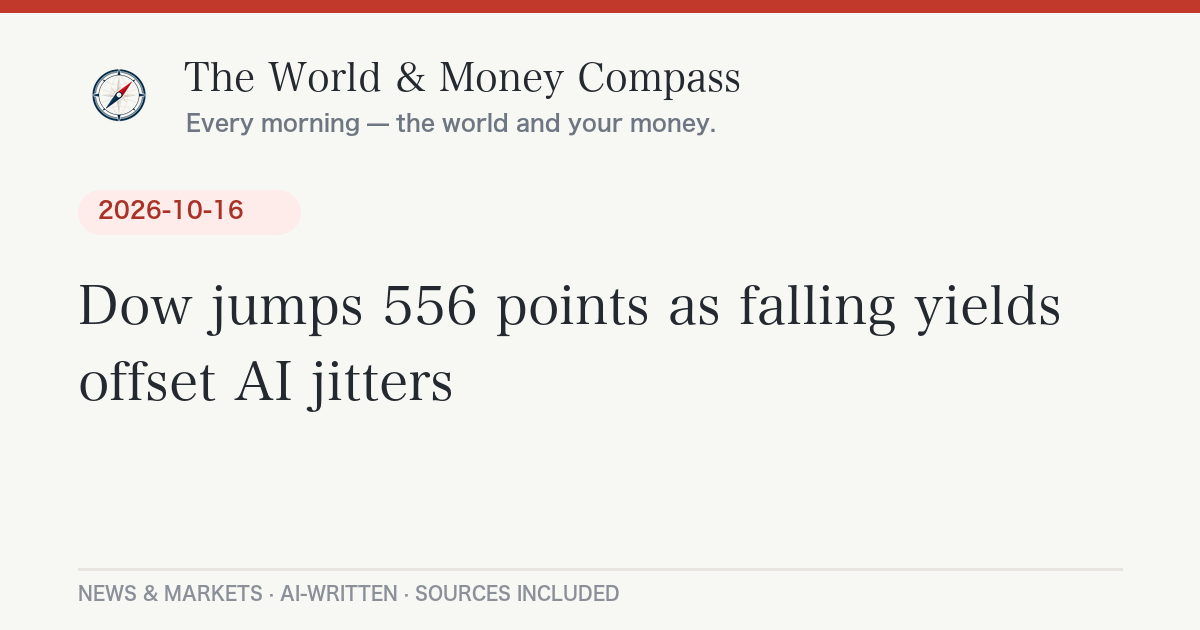
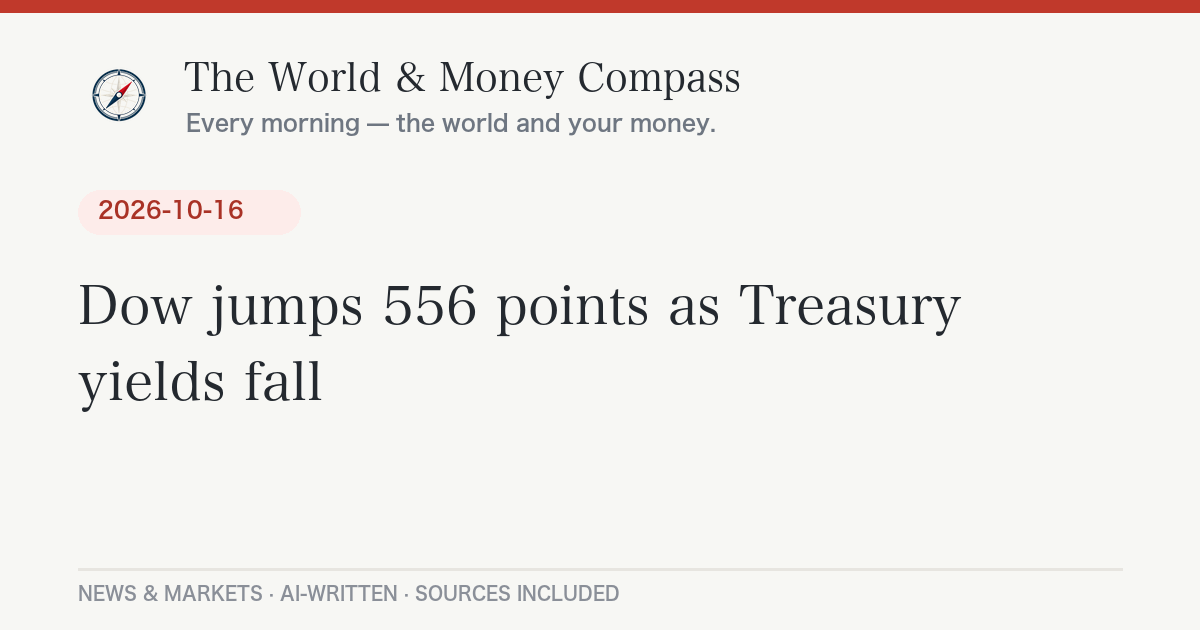
Daily briefing 2026-10-18

Changed region(s): [[0.0617, 0.573, 0.37, 0.6635], [0.6167, 0.4524, 0.8942, 0.5429]]

diff --git a/_posts/2026-10-18-daily-briefing.md b/_posts/2026-10-18-daily-briefing.md
@@ -1,0 +1,105 @@
+---
+layout: post
+lang: ja
+title: "トランプ氏が対ロシア制裁を免除、原油は週10%高｜10月18日のニュースとお金"
+date: 2026-10-18 07:39:05 +0900
+categories: [ニュース, 経済]
+headline: "トランプ氏が対ロシア制裁を免除、原油は週10%高"
+permalink: /2026/10/18/daily-briefing/
+---
+
+## 今日のポイント
+
+トランプ米大統領が、発動直前だった対ロシアの新しい制裁と関税をまとめて免除しました。背景にあるのは、イランとの戦争で高くなった燃料価格を下げたいという思惑です。その原油は今週1割上がり、1バレル100ドルを超えました。週末版の今日は、1週間の値動きを振り返りながら、来週の注目点を整理します。
+
+## 今日の羅針盤（Compass Insight）
+
+今週を一言でまとめると「エネルギー高が政治も相場も動かした1週間」です。ホルムズ海峡周辺では船への攻撃が戦争開始以来の高い水準となり、WTI原油は1週間で[約10%上がって101ドル台](https://www.tokenpost.com/news/investing/33503)で取引を終えました。トランプ氏がロシアへの新しい制裁を[発動前に免除した](https://www.cnbc.com/2026/10/17/trump-waives-russia-related-sanctions-tariffs-before-they-take-effect-.html)のも、ロシア産ディーゼルを市場に出してもらい燃料価格を抑えたい、という事情と結びついています。外交の原則より「ガソリン代」が優先される局面だと読めます。
+
+燃料高の影響は欧州にも広がり、フランスでは物価高に抗議する大規模デモが起きました。物価が上がれば金利も上がりやすくなり、借金の多いAI関連企業の株が売られる——この流れで、ナスダックは今週[4%余り](https://finance.yahoo.com/quote/%5EIXIC/history)、日経平均は[5%余り](https://finance.yahoo.com/quote/%5EN225/history)下げました。
+
+家計への影響で見ると、原油100ドル超と[1ドル＝158円台](https://api.frankfurter.app/latest?from=USD&to=JPY)の円安が重なると、ガソリン代や電気・ガス代、輸入食品の値上がり圧力が続きやすくなります。一方、国内では食料品の消費税を引き下げる法案が[20日に衆院で審議入り](https://www.jiji.com/jc/article?k=2026101600773&g=eco)します。実際に下がるのは2027年4月からの予定で、今の物価高をすぐに和らげるものではない点には注意が必要です。
+
+短期的には、週明けの株式市場が原油高とハイテク株安をどこまで受け止めるか、そして20日のネットフリックス、21日のテスラの決算に注目です。中長期では、10月27〜28日の米FOMCで利上げがあるかどうか、そして11月3日の米中間選挙をはさんで中東情勢が落ち着くかが、物価と相場の行方を左右しそうです。
+
+## 今日のニュース
+
+### 日本
+
+- 食料品の消費税率を2027年4月から2年間、8%から1%に下げる法案が、[20日の衆院本会議で審議入り](https://www.jiji.com/jc/article?k=2026101600416&g=pol&m=rss)することで自民党と「中道」が合意しました。本会議には高市首相が出席します。野党は財源や支援金の対象を[明らかにするよう求める構え](https://news.web.nhk/newsweb/na/nd-20261017de60791)です。
+- 山中前市長の辞職に伴う横浜市長選挙は、今日18日に投開票されます。7人が立候補する[異例の混戦](https://www.kanaloco.jp/news/government/electiondata/article-1313099.html)となっています。
+- 台風30号（チャンパー）は急速に発達しており、来週後半に[非常に強い勢力で沖縄の南の海上に達する見込み](https://news.web.nhk/newsweb/na/nd-20261017de60802)です。その後の進路はまだ定まっておらず、今後の情報に注意が必要です。
+
+### 世界
+
+- ホルムズ海峡周辺での船への攻撃は、2月の戦争開始以来で[最も多い水準](https://www.nbcnews.com/world/iran/iran-strikes-strait-hormuz-shipping-trump-oil-prices-midterms-rcna603670)に達しています。米中央軍は「海峡は通航可能」としていますが、[攻撃は続いています](https://www.cbsnews.com/live-updates/iran-war-us-trump-strait-of-hormuz-yemen-houthis-saudi-arabia/)。
+- ローマ教皇レオ14世は17日、右肺のがん手術を受けたローマの病院を[退院してバチカンに戻りました](https://www.washingtonpost.com/world/2026/10/17/pope-leo-be-discharged-after-lung-cancer-operation/)。11月の中南米訪問は予定どおりとされています。
+
+### アメリカ
+
+- トランプ大統領は16日、9月に成立した対ロシア制裁法に基づく新しい制裁と関税を、[発動前に免除する大統領令に署名](https://abcnews.com/Politics/trump-signs-order-waiving-graham-act-sanctions-russia/story?id=137341529)しました。ロシア産原油の大口購入国への関税なども対象です。ウクライナのゼレンスキー大統領は「間違いだ」と[強く批判](https://www.npr.org/2026/10/17/nx-s1-6006745/us-sanctions-russia)しました。
+- 下院議員イルハン・オマル氏の弁護団は、ワシントンの自宅への連邦当局の捜索で押収された物品の[返還を求めました](https://www.aljazeera.com/news/2026/10/17/ilhan-omars-lawyers-demand-the-return-of-property-seized-in-house-raid)。
+
+### ヨーロッパ
+
+- フランス全土で17日、物価や燃料価格の高騰に抗議するデモがあり、内務相によると約55万人が参加し、[400人近くが逮捕](https://www.yahoo.com/news/world/articles/hundreds-arrested-french-protests-against-180340385.html)されました。パリやマルセイユなどで警官隊と衝突し、リヨンでは観光案内所に[火がつけられました](https://www.cnn.com/2026/10/17/world/live-news/france-protests-paris-intl)。
+- EUは16日の首脳会議で、ロシアが全面侵攻を続ける限り[制裁を維持する姿勢を確認](https://www.euronews.com/2026/10/16/budget-ukraine-migration-five-takeaways-from-the-eu-leaders-summit)したばかりです。同じ日に米国が新たな制裁を[免除した](https://www.euronews.com/2026/10/17/trump-signs-executive-order-waiving-new-russia-sanctions-package)ことで、対ロシア政策での欧米の違いが一段と目立つ形になりました。
+
+## 経済とお金の動き
+
+### 世界の経済と原油・相場
+
+週末のため市場は休みです。表は10月16日（金）の終値と、前の週末（10月9日）からの1週間の変化です。
+
+| 指標 | 水準（10月16日終値） | 週間の変化 |
+|---|---|---|
+| NYダウ | [5万2002.41ドル](https://finance.yahoo.com/quote/%5EDJI/history) | <span class="chg-up">+347.46ドル（+0.67%）</span> |
+| S&P500 | [7659.44](https://finance.yahoo.com/quote/%5EGSPC/history) | <span class="chg-down">-152.10（-1.95%）</span> |
+| ナスダック総合 | [2万6140.03](https://finance.yahoo.com/quote/%5EIXIC/history) | <span class="chg-down">-1226.14（-4.48%）</span> |
+| 日経平均株価 | [6万5324.29円](https://finance.yahoo.com/quote/%5EN225/history) | <span class="chg-down">-3706.63円（-5.37%）</span> |
+| WTI原油 | [101.41ドル/バレル](https://www.tokenpost.com/news/investing/33503) | <span class="chg-up">+9.56ドル（+10.4%）</span> |
+| ドル円 | [158.02円](https://api.frankfurter.app/latest?from=USD&to=JPY)（ECB基準・10月16日） | 158円台で推移 |
+
+今週の主役は原油でした。北海ブレントは16日に[109.86ドルと5月以来の高値](https://www.tokenpost.com/news/investing/33503)で引け、米国の原油在庫も大きく減りました。ダウが小幅高を保った一方、ハイテク株の多いナスダックの下げが目立ち、「エネルギー高・ハイテク安」がはっきり分かれた1週間でした。
+
+### アメリカの経済
+
+9月の消費者物価が予想を上回ったことで、10月27〜28日のFOMCで利上げがあるかに関心が集まっています。来週は[20日にネットフリックス、21日にテスラ](https://seekingalpha.com/article/4830830-tesla-netflix-scheduled-to-report-earnings-next-week-as-investors-focus-on-delayed-cpi)が決算を発表する予定で、AI関連株の売りが一服するかを占う材料になります。対ロシア制裁の免除など、政権が燃料価格を下げることを優先している点も、中間選挙を前にした特徴です。
+
+### 日本の経済
+
+日経平均は今週、6万9000円台から6万5000円台まで下がりました。ザイ・オンラインは来週（19〜23日）の予想レンジを[6万2000〜6万8000円](https://diamond.jp/zai/articles/-/1074236)とし、米国の金利や原油相場、AI関連企業の決算に注目しています。円安と原油高が重なる中、20日に審議入りする食料品の消費税減税は、来年以降の家計を下支えする政策として国会での議論の行方が注目されます。
+
+## 今日の注目銘柄・セクター
+
+- **コアウィーブ（AI向けデータセンター）**：借金の多さへの不安から今週大きく売られ、16日も[日中に約10%下落](https://www.cnbc.com/2026/10/16/stocks-making-the-biggest-moves-midday-crwv-moga-jbht-aa.html)しました。同社の社債の利回りは[15%台まで上昇](https://www.cnbc.com/2026/10/14/coreweave-stock-bond-yields-ai-debt.html)しており、AI投資を借金でまかなう企業への警戒感を象徴する銘柄になっています。
+- **J.B.ハント（米陸運）**：コストの上昇が重しとなり、16日に[株価が下がりました](https://www.marketscreener.com/news/coreweave-debt-stress-jb-hunt-falls-on-rising-costs-stock-movers-ce785cdadc8ff526)。燃料高は運送・物流企業の利益を圧迫しやすく、原油100ドル時代の影響を受けやすいセクターです。
+- **エネルギー・石油関連**：WTIが1週間で約10%上がり、ブレントが5月以来の高値をつけたことで注目を集めています。ただし、中東情勢や米政権の政策次第で価格が大きく振れやすい点にも注意が必要です。
+
+*※特定銘柄の売買を推奨するものではありません。投資判断はご自身の責任で。*
+
+## まとめ：注目の3つ
+
+1. **原油100ドル超えが続くか**：ホルムズ海峡の攻撃と、燃料価格を抑えたい米政権の動きの綱引き
+2. **AI関連株の「答え合わせ」**：20日ネットフリックス、21日テスラの決算と、借金の多いAI企業への不安
+3. **国内政治の日程**：18日の横浜市長選の結果と、20日に審議入りする食料品の消費税減税法案
+
+---
+<div class="post-sources" markdown="1">
+
+**出典：**
+- [ABC News: Trump signs order waiving Graham Act sanctions on Russia](https://abcnews.com/Politics/trump-signs-order-waiving-graham-act-sanctions-russia/story?id=137341529)
+- [CNBC: Trump waives broad new Russia sanctions, Zelenskyy condemns it as 'wrong'](https://www.cnbc.com/2026/10/17/trump-waives-russia-related-sanctions-tariffs-before-they-take-effect-.html)
+- [NPR: Zelenskyy urges support for new US sanctions on Russia](https://www.npr.org/2026/10/17/nx-s1-6006745/us-sanctions-russia)
+- [NBC News: Hormuz ship attacks hit record high](https://www.nbcnews.com/world/iran/iran-strikes-strait-hormuz-shipping-trump-oil-prices-midterms-rcna603670)
+- [TokenPost: Brent Crude Settles at $109.86 as WTI Closes Above $100](https://www.tokenpost.com/news/investing/33503)
+- [Yahoo News: Hundreds arrested at French protests against cost of living](https://www.yahoo.com/news/world/articles/hundreds-arrested-french-protests-against-180340385.html)
+- [Washington Post: Pope Leo leaves hospital after lung cancer operation](https://www.washingtonpost.com/world/2026/10/17/pope-leo-be-discharged-after-lung-cancer-operation/)
+- [時事ドットコム：消費減税法案、20日審議入り](https://www.jiji.com/jc/article?k=2026101600773&g=eco)
+- [NHK：台風30号情報 予想される進路は](https://news.web.nhk/newsweb/na/nd-20261017de60802)
+- [ザイ・オンライン：来週（10/19～23）の日経平均株価の予想レンジ](https://diamond.jp/zai/articles/-/1074236)
+- 市場データ: [frankfurter API](https://api.frankfurter.app/) ／ Yahoo Finance ほか
+
+*本記事は公開情報をもとに作成しています。*
+
+</div>

diff --git a/_posts/2026-10-18-daily-briefing-en.md b/_posts/2026-10-18-daily-briefing-en.md
@@ -1,0 +1,50 @@
+---
+layout: post
+lang: en
+title: "Trump waives new Russia sanctions as oil jumps 10% in a week — October 18, 2026"
+date: 2026-10-18 07:39:05 +0900
+headline: "Trump waives new Russia sanctions as oil jumps 10% in a week"
+permalink: /2026/10/18/daily-briefing/
+---
+
+## Top U.S. Stories
+
+- **Trump waives Russia sanctions before they bite.** President Trump signed an executive order on Friday [waiving the new sanctions and tariffs](https://abcnews.com/Politics/trump-signs-order-waiving-graham-act-sanctions-russia/story?id=137341529) under the Russia sanctions law he signed in September, including tariffs on top buyers of Russian crude. Ukraine's Zelenskyy called the move ["wrong"](https://www.cnbc.com/2026/10/17/trump-waives-russia-related-sanctions-tariffs-before-they-take-effect-.html).
+  *Why it matters:* The White House is prioritizing lower fuel prices ahead of the midterms, even at the cost of friction with Kyiv and Europe.
+- **Oil tops $100.** WTI crude settled at [$101.41 a barrel on Friday](https://www.tokenpost.com/news/investing/33503), up about 10% on the week, while Brent closed at $109.86, its highest since May.
+  *Why it matters:* Higher energy costs feed directly into inflation, raising the odds of a tighter Fed.
+- **Hormuz attacks at a wartime high.** Attacks on ships near the Strait of Hormuz have reached [a record since the war began](https://www.nbcnews.com/world/iran/iran-strikes-strait-hormuz-shipping-trump-oil-prices-midterms-rcna603670), even as U.S. Central Command says the waterway [remains open](https://www.cbsnews.com/live-updates/iran-war-us-trump-strait-of-hormuz-yemen-houthis-saudi-arabia/).
+- **Tech stocks end a rough week.** The Nasdaq Composite closed Friday at [26,140.03](https://finance.yahoo.com/quote/%5EIXIC/history), down about 4.5% for the week, as worries about debt-funded AI build-outs hit names like [CoreWeave](https://www.cnbc.com/2026/10/16/stocks-making-the-biggest-moves-midday-crwv-moga-jbht-aa.html).
+  *Why it matters:* Investors are now testing whether AI spending can be financed if rates move higher.
+- **Ilhan Omar's lawyers seek seized property.** Attorneys for the congresswoman demanded the [return of items taken in a federal raid](https://www.aljazeera.com/news/2026/10/17/ilhan-omars-lawyers-demand-the-return-of-property-seized-in-house-raid) on her Washington home, calling the search politically motivated.
+
+## Compass Insight
+
+This week, energy set the agenda for both markets and policy. Oil's 10% surge pushed inflation worries higher, and that pressure fell hardest on heavily indebted AI companies, dragging the Nasdaq down while the more value-heavy Dow eked out a gain. Washington's response — waiving Russia sanctions to free up fuel supply — shows how much fuel prices now drive policy before the Nov. 3 midterms. In the short term, watch whether oil holds above $100 and how Netflix and Tesla earnings land next week. Over the medium term, the Fed's Oct. 27–28 meeting and any easing of Hormuz tensions will likely decide whether this is a pause in the AI rally or the start of a deeper reset.
+
+## Markets
+
+Markets were closed for the weekend. Friday, Oct. 16 closes: Dow [52,002.41](https://finance.yahoo.com/quote/%5EDJI/history) (+0.67% for the week), S&P 500 [7,659.44](https://finance.yahoo.com/quote/%5EGSPC/history) (−1.95%), Nasdaq 26,140.03 (−4.48%). Japan's Nikkei 225 closed at [65,324.29](https://finance.yahoo.com/quote/%5EN225/history), down 5.4% on the week. USD/JPY stood at [158.02](https://api.frankfurter.app/latest?from=USD&to=JPY) (ECB reference rate, Oct. 16).
+
+## Stocks in Focus
+
+- **CoreWeave:** Fell about 10% midday Friday as investors braced for higher rates; yields on its bonds have [climbed above 15%](https://www.cnbc.com/2026/10/14/coreweave-stock-bond-yields-ai-debt.html).
+- **J.B. Hunt:** Shares [slipped on rising costs](https://www.marketscreener.com/news/coreweave-debt-stress-jb-hunt-falls-on-rising-costs-stock-movers-ce785cdadc8ff526), a reminder that $100 oil squeezes transport companies.
+- **Next week:** [Netflix reports Tuesday and Tesla Wednesday](https://seekingalpha.com/article/4830830-tesla-netflix-scheduled-to-report-earnings-next-week-as-investors-focus-on-delayed-cpi).
+
+---
+<div class="post-sources" markdown="1">
+
+**Sources:**
+- [ABC News: Trump signs order waiving Graham Act sanctions on Russia](https://abcnews.com/Politics/trump-signs-order-waiving-graham-act-sanctions-russia/story?id=137341529)
+- [CNBC: Trump waives broad new Russia sanctions](https://www.cnbc.com/2026/10/17/trump-waives-russia-related-sanctions-tariffs-before-they-take-effect-.html)
+- [TokenPost: Brent Crude Settles at $109.86 as WTI Closes Above $100](https://www.tokenpost.com/news/investing/33503)
+- [NBC News: Hormuz ship attacks hit record high](https://www.nbcnews.com/world/iran/iran-strikes-strait-hormuz-shipping-trump-oil-prices-midterms-rcna603670)
+- [CNBC: Stocks making the biggest moves midday, Oct. 16](https://www.cnbc.com/2026/10/16/stocks-making-the-biggest-moves-midday-crwv-moga-jbht-aa.html)
+- [Al Jazeera: Ilhan Omar's lawyers demand return of seized property](https://www.aljazeera.com/news/2026/10/17/ilhan-omars-lawyers-demand-the-return-of-property-seized-in-house-raid)
+- [Seeking Alpha: Tesla, Netflix scheduled to report earnings next week](https://seekingalpha.com/article/4830830-tesla-netflix-scheduled-to-report-earnings-next-week-as-investors-focus-on-delayed-cpi)
+- Market data: [frankfurter API](https://api.frankfurter.app/) / Yahoo Finance
+
+</div>
+
+*Auto-generated and AI-written. Not investment advice.*
